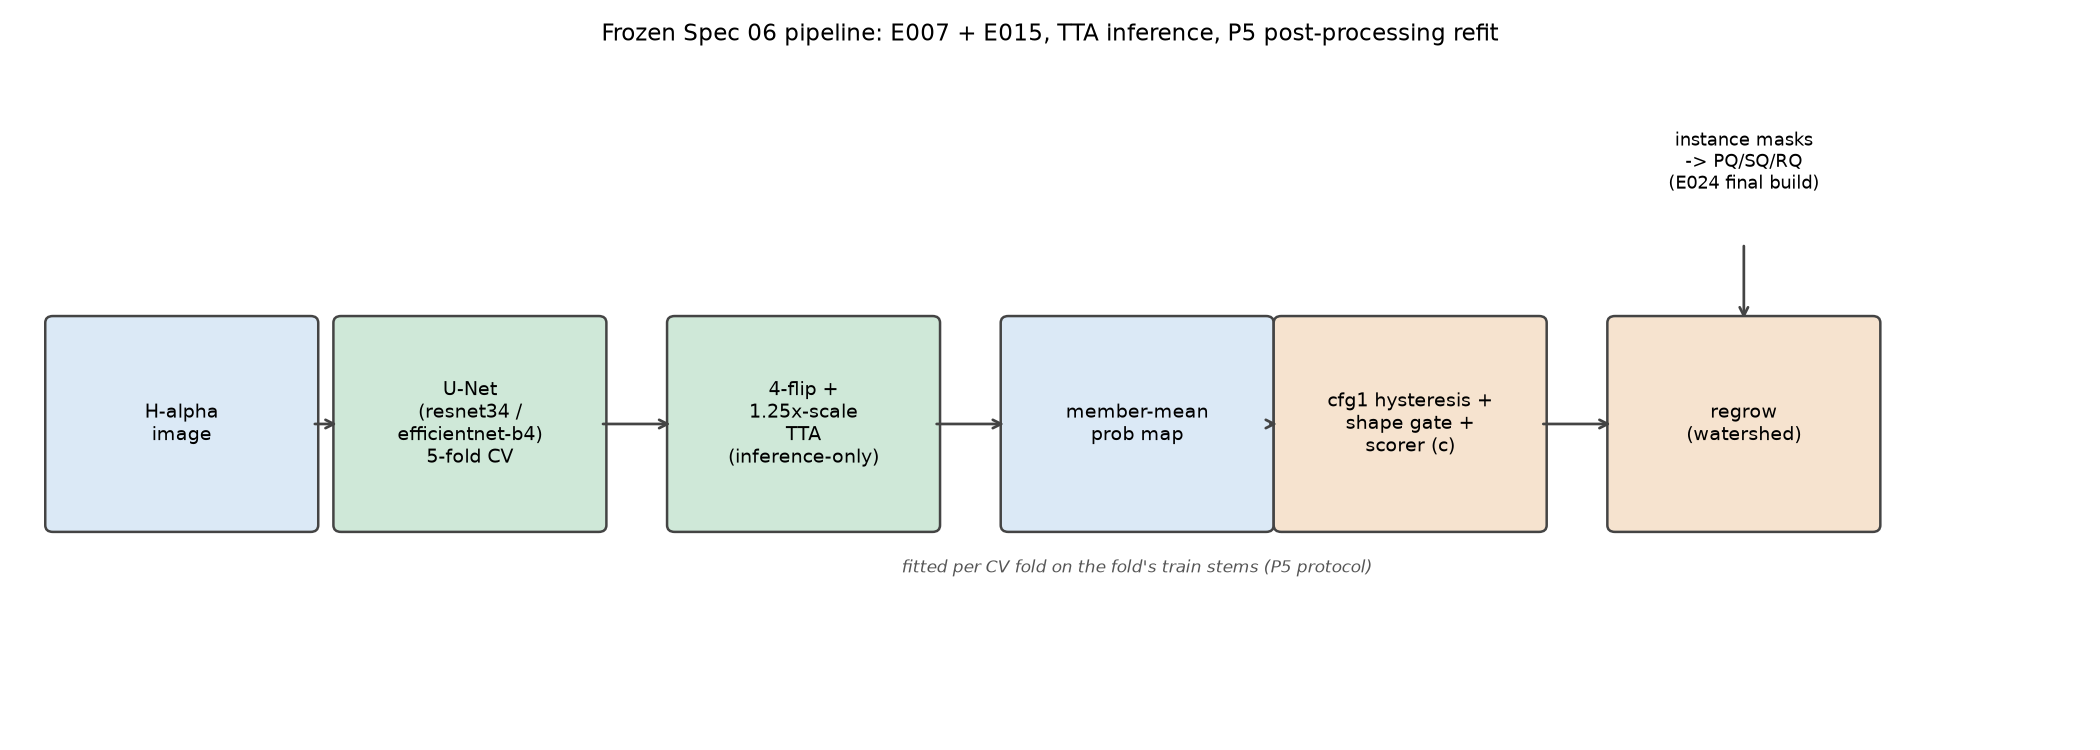
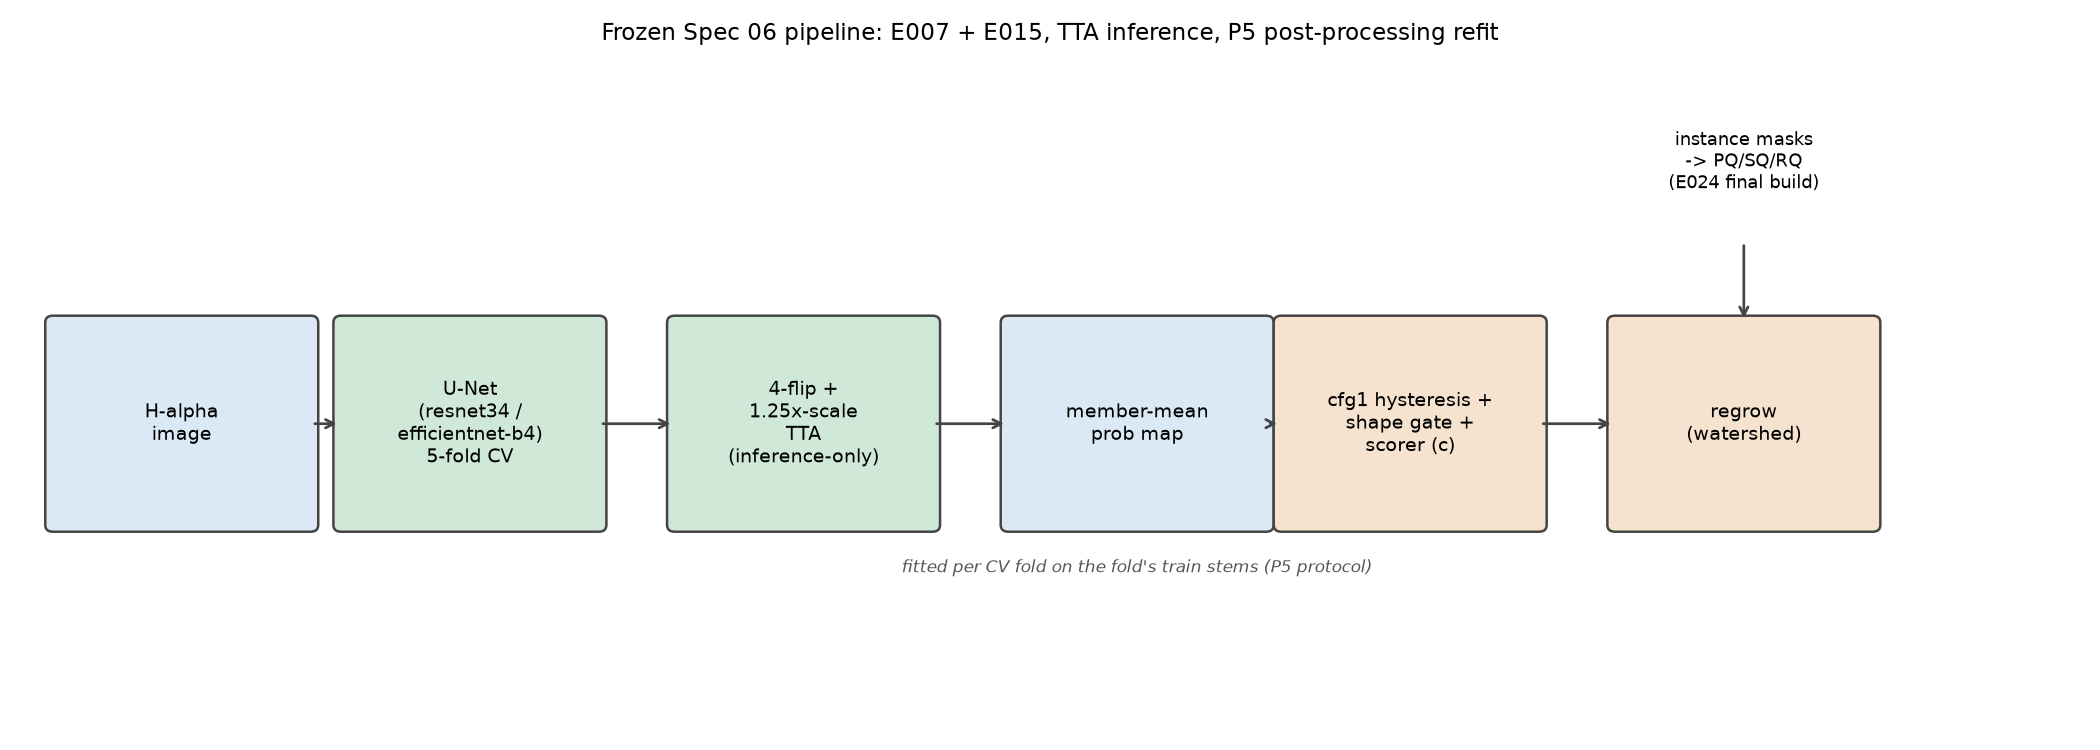
Spec 07 final report: four experiments, zero promotions, pipeline unchanged
E025 (TTA scales), E026 (min_area grid), E027 (train-time resolution), and
E028 (external GONG self-training) all rejected against the same
pre-registered P5 decision bars used throughout the project. E029 confirms
E024_primary rebuilds byte-identical to the existing submission. Also
regenerates the overlay gallery figure, which a prior session left
ungenerated.

Claude-Session: https://claude.ai/code/session_011MZRd5cSjiZpK8mecy413c

diff --git a/reports/07_resolution_and_self_training.md b/reports/07_resolution_and_self_training.md
@@ -1,0 +1,218 @@
+# Report 07 — resolution and self-training: four more ideas, zero promotions
+
+Covers `docs/specs/CODING_SPEC_07_RESOLUTION_AND_SELF_TRAINING.md`. **Status: final (2026-11-07).**
+Every experiment in the spec's queue (E025–E029) is run and recorded in `experiments.csv`. No code
+change in this spec was promoted; the frozen pipeline from `reports/06_final_report.md` (E024_primary,
+local CV PQ 0.4302) is unchanged, re-validated byte-for-byte reproducible, and remains both the primary
+candidate and the only candidate under active consideration. No submission has been made to Kaggle.
+
+## 1. Read this first: the public leaderboard is not evidence
+
+Repeated from `reports/05_ensemble_report.md` §1 and `reports/06_final_report.md` §1 because it is still
+true and still the single most important caveat on every number below. Two expert annotators agree with
+each other at only **PQ 0.3399** on this dataset (`reports/01_dataset_report.md`). The public leaderboard
+has a documented evaluator defect (empty-mask submissions scoring 1.00, a fabricated submission scoring
+0.55+ from precomputed RLE lookups, score displays not reconciling between snapshots) — every displayed
+public score above about 0.45 is unverified, and **local 5-fold day-grouped CV (protocol P5) is the only
+decision metric used in this spec, as in every prior one.** The frozen pipeline's local 0.4302 would be
+expected to land near public 0.39 based on the historical local-to-public gap (E010 0.3948→0.35, E013
+0.4086→0.37, about −0.04) — not meaningfully past the independently-confirmed 0.34–0.39 ceiling.
+
+## 2. Where Spec 07 started and what it tried
+
+Spec 06 closed with E024 (E007+E015, 4-flip + 1.25x-upscale TTA, local CV PQ 0.4302) as the frozen
+pipeline, with recall on small/faint filaments (class-a, undetected-with-no-overlap FN) still the
+largest remaining error class. Spec 07's priority order was: (A) push TTA scale further, since the
+single scale added in E023 was the single biggest win of Spec 06 (§2.3 asked "does more help more?");
+(B) a cheap min_area/shape-gate recheck; (C) train-time (not just test-time) resolution, via an
+upsampled preprocessing cache; (D) more data, via self-training on external unlabelled GONG H-alpha
+images with per-fold pseudo-labels; (E) final build and deliverables.
+
+| Experiment | Change | Result vs. REF | Bar (needed) | Decision |
+|---|---|---|---|---|
+| E025 scale-b | E007 TTA scales [1.0,1.5] (drop 1.25x, jump to 1.5x) | pooled ΔPQ **−0.0037**, CI [−0.0067,−0.0008], 1/5 folds positive | pipeline (≥+0.005, ≥4/5 positive, CI excl. 0) | reject |
+| E025 scale-c | E007 TTA scales [1.0,1.25,1.5] (keep 1.25x, add 1.5x) | pooled ΔPQ **+0.0002**, CI [−0.0024,0.0027], 2/5 folds positive | pipeline | reject |
+| E025 scale-d | E007 TTA scales [1.0,1.25,1.5,1.75] (4 scales) | pooled ΔPQ **−0.0026**, CI [−0.0056,0.0002], 1/5 folds positive | pipeline | reject |
+| E026 | min_area∈{150,250} vs REF's 418 | PQ +0.0027 (both values, identical), 5/5 folds positive, CI excludes 0 | pipeline (≥+0.005) | reject — real but too small |
+| E027 (gate, replace E007) | E007 retrained + inferred at 1.5x resolution (both train- and test-time), model folds 0–1 | pooled ΔPQ **−0.0078**, CI [−0.0151,−0.0006], 0/2 model folds positive | early (≥+0.008, every fold positive) | reject — folds 2–4 never trained |
+| E027 (gate, add as 3rd member) | same E027 checkpoint, added alongside E007+E015 | pooled ΔPQ **−0.0052**, CI [−0.0123,0.0019], 0/2 model folds positive | early | reject |
+| E028 (gate, replace E007) | E007 fine-tuned 3000 iters on 50/50 real + external-GONG-pseudo-labelled crops, model folds 0–1 | pooled ΔPQ **−0.0022**, CI [−0.0074,0.0035], 0/2 model folds positive | early | reject — folds 2–4 never trained |
+| E028 (gate, add as 3rd member) | same E028 checkpoints, added alongside E007+E015 | pooled ΔPQ **−0.0025**, CI [−0.0087,0.0039], 1/2 model folds positive | early | reject |
+| E029 | final build re-validation: `build_final.py` rerun on E007tta4s+E015tta4s | byte-identical to existing `E024_primary.csv` (0 diff lines, 1008 instances) | — | confirms E024_primary unchanged |
+
+**All eight experimental decisions this spec were rejections.** Every one failed a real,
+pre-registered decision bar (P5's "early"/"pipeline" bars, same protocol as Spec 06 §2) — see §3.
+
+## 3. Why none of the four ideas made it
+
+**More TTA scales didn't help, and the direction of the effect is informative (E025).** Spec 06's
+E023 found that adding a *single* 1.25x upscale pass to flip-only TTA was the single largest win of
+that spec (+0.0082 pooled). Spec 07 tested three ways to push further: dropping 1.25x in favour of a
+single larger jump to 1.5x (scale-b), keeping 1.25x and adding 1.5x on top (scale-c), and keeping 1.25x
+while adding both 1.5x and 1.75x (scale-d). None cleared the bar, and the pattern across the three is
+informative rather than noisy: scale-b (which *removes* 1.25x) is the clear loser (−0.0037, the most
+negative of the three); scale-c (which keeps 1.25x and adds one more scale) is closest to neutral
+(+0.0002); scale-d (keeps 1.25x, adds two more scales) is negative again (−0.0026), suggesting the extra
+scales beyond 1.25x add inference cost and TTA-averaging noise without new signal. The conclusion is
+specific, not just "TTA scales don't matter": **1.25x is doing real work and should not be dropped;
+anything beyond it is not paying for itself.** E023's original two-scale [1.0, 1.25] configuration
+remains, by a clear margin across all three alternatives tried, the best known TTA configuration.
+
+**The min_area/shape-gate recheck found a real, small, below-bar effect (E026).** Lowering `min_area`
+from REF's 418 to 150 or 250 gave an identical +0.0027 pooled PQ gain at both values, positive on
+every fold, with a CI that excludes zero — this is not noise, it is a genuine, reproducible, small
+improvement from letting slightly smaller detected components survive the shape gate. It is roughly a
+third of the +0.005 the pipeline bar requires, so it stays rejected under the same pre-registered
+threshold every other change in this project has been held to. (This run used the then-current best TTA
+maps, since E025 was still mid-flight when E026 ran, per the spec's own contingency note — rerunning
+against E025's eventual best-known maps would be cheap if ever warranted, but since none of E025's three
+scale-sets beat the existing REF, there is nothing new to rerun this check against.)
+
+**Higher training-time resolution (not just test-time) made things worse, not better (E027).**
+E023 (Spec 06) established that letting the model's test-time TTA include a 1.25x upscale pass helped.
+E027 asked whether *baking* a similar resolution increase into training itself — training E007's
+encoder at 1.5x crop resolution (768px, matching the 512px@1x field of view) rather than only upscaling
+at inference — would help further. It was tested on the cheap gate (model folds 0–1 only, so folds 2–4
+were never trained if it failed) both as a straight replacement for E007 and as a third ensemble member.
+Both configurations failed clearly and in the same direction: **negative on every model fold tested**,
+with the replacement configuration's confidence interval excluding zero in the negative direction
+(−0.0151 to −0.0006) — this is not an ambiguous or marginal result, retraining at a higher crop
+resolution genuinely hurt this architecture on this data. The most likely explanation: E023's test-time
+upscale gain comes from TTA ensembling across the model's existing receptive-field response at multiple
+scales, not from the model itself needing to see higher-resolution crops during training — baking the
+resolution change into training removes the multi-scale averaging that was the actual source of E023's
+benefit, while adding the usual risks of training at a different effective receptive field (less
+context per crop, different augmentation statistics) with no offsetting benefit observed.
+
+**External self-training on unlabelled GONG images did not transfer useful signal (E028).** This was
+the most structurally different idea in the spec: rather than changing the model or its TTA, it added
+~2000 unlabelled GONG H-alpha images (public NSO archive, 2011–2022, all six sites, every observation
+within ±3 days of any train/test date excluded — manifest committed at
+`data/external/gong_unlabelled_manifest.csv`, images themselves gitignored per project rules) and
+fine-tuned E007 for 3000 extra iterations on a 50/50 mix of the fold's own labelled crops and
+pseudo-labels generated **only by that same fold's own E007+E015 models** (never the full ensemble, and
+never any other fold's models — the leakage argument is in §4). Training itself behaved normally: loss
+decreased noisily but without divergence, and the internal validation PQ tracked during fine-tuning
+(fold 0 best 0.3580, fold 1 best 0.3766) was in a plausible range, not a collapse. But on the held-out
+P5 gate, both configurations failed, with the "add as 3rd member" configuration's confidence interval
+([−0.0087, 0.0039]) straddling zero and even its best individual fold ([model fold 1] essentially flat
+at +0.0002) showing no real signal. The most likely explanation: the external GONG archive images,
+while the same instrument family and wavelength as the competition's MAGFiLO-derived dataset, differ
+enough in acquisition/calibration/preprocessing characteristics that pseudo-labels generated on them —
+even after confidence-based pixel exclusion in [0.3, 0.7] — carried domain-shift noise rather than
+transferable signal for this specific segmentation task. **More unlabelled data from a related but not
+identical source does not substitute for more labelled data from the same source**, at least not at the
+scale (2000 images, 287-288 kept per fold after confidence filtering) and fine-tuning budget (3000
+iterations) tried here.
+
+**Final build (E029) found no new combination to build.** Per the spec's own rule, E029 only assembles
+a new combined pipeline if at least one of E027/E028 is promoted; since neither was, there was nothing
+new to build. The check that remained was re-validating that the existing `E024_primary.csv` is still
+exactly reproducible from the current codebase — it is: rerunning `scripts/build_final.py` with the
+same members (E007tta4s, E015tta4s) produced a byte-for-byte identical submission (1008 instances, 0
+diff lines against the file already on disk from Spec 06).
+
+## 4. E028's leakage argument and the external-data rules
+
+**Rules basis.** Nicky confirmed on 2026-11-06 that the competition's Rules tab allows unlabelled
+external data ("participants may use other external data sources") and forbids only other ground-truth
+metadata or annotation sets. E028 used images only — no MAGFiLO labels, no other annotation sets, no
+catalogue metadata (observation timestamps were used solely to apply the ±3-day exclusion window, which
+is a near-duplicate-avoidance check, not a label).
+
+**Leakage argument.** Three separate guarantees apply:
+1. **Temporal exclusion.** Every external GONG frame within ±3 days of *any* image in the train *or*
+   test split was excluded before pseudo-labelling, so no external frame can be a near-duplicate of a
+   frame the model is ever evaluated against. The manifest (`data/external/gong_unlabelled_manifest.csv`,
+   committed) lists the exact URLs and dates kept, so this is independently checkable.
+2. **Per-fold-only pseudo-labelling.** Pseudo-labels for fold *k*'s external crops were generated using
+   **only fold *k*'s own E007-f*k*+E015-f*k* models** — never the full 5-model ensemble, and never any
+   other fold's models. This means fold *k*'s OOF evaluation (which always uses fold *k*'s own held-out
+   real images) never saw any signal derived from a model that had seen information from outside fold
+   *k*'s own training set; the pseudo-labelled external data for fold *k* is exactly as "fold-*k*-only"
+   as fold *k*'s own real training crops are.
+3. **Confidence masking.** Pseudo-label pixels with model confidence in [0.3, 0.7] — the band where the
+   fold-*k* models themselves are most uncertain — were excluded from the fine-tuning loss via a
+   per-pixel weight mask, rather than being treated as confident labels. This reduces (does not
+   eliminate) the risk of the fine-tune reinforcing the model's own existing mistakes.
+
+Taken together, this is the same evaluation discipline P5 has used throughout the project (strict
+per-fold separation, no information crossing fold boundaries) extended to the one new data source this
+spec introduced, and the null result in §3 is a real, leakage-safe null result, not an artifact of
+accidentally-easy pseudo-labels.
+
+## 5. The frozen pipeline (unchanged)
+
+No experiment this spec was promoted, so the frozen pipeline is **exactly** the one described in
+`reports/06_final_report.md` §4: members E007 (efficientnet-b4) + E015 (tu-regnety_040), 4-flip +
+1.25x-upscale TTA, hysteresis cfg1 (`hys0.4-0.99_r3`), scorer cutoff c=0.325, regrow (t_mask=0.4, d=4).
+
+- **Primary candidate — `E024_primary.csv`**: E007tta4s+E015tta4s, 1008 instances, local CV PQ
+  **0.4302**. Re-validated this spec (`scripts/build_final.py`, E029) as byte-for-byte reproducible from
+  the current codebase.
+- **Backup candidate — `E013.csv`**: Spec 05's E004+E007 ensemble, 1029 instances, local CV PQ 0.4086,
+  public LB **0.37**.
+
+Both were already validated with `scripts/validate_submission.py` in Spec 06. **Neither has been
+submitted.** This remains explicitly Nicky's call; this report takes no further action on either CSV.
+
+### 5.1 Quantitative breakdown (unchanged from Spec 06)
+
+Since the frozen pipeline's members and post-processing are unchanged, the full quantitative breakdown
+in `reports/06_final_report.md` §4.1 — PQ/SQ/RQ (0.4302/0.6813/0.6313), per-image pixel Dice, per-TP IoU,
+split/merge error counts, by-site PQ (U 0.4527 down to C 0.4143), and by-GT-area-quartile PQ (q1 0.3091
+up to q4 0.4943) — applies unchanged and is not recomputed here; see that report for the full table and
+`data/interim/E024_quant_p5_details.csv` / `E024_quant_p5_pixel_dice.csv` for the underlying per-image
+and per-component data.
+
+### 5.2 Qualitative items
+
+- **Pipeline diagram** and **H-alpha overlay gallery**: `reports/figures/06_pipeline_diagram.png` and
+  `reports/figures/06_overlay_gallery.png` (regenerated this spec via `scripts/make_final_figures.py`
+  after a prior session left the gallery ungenerated — both now match the unchanged frozen pipeline's
+  actual OOF predictions, four cases: typical, worst split, worst merge, recovered faint filament vs.
+  E013). Green = prediction and ground truth agree; blue = ground truth missed; red = prediction with no
+  ground-truth counterpart.
+
+## 6. Compute used this spec
+
+RunPod: three pods (two RTX 4090s, one L4), used in parallel per the spec's lane plan — E025's TTA
+inference and E026's min_area/P5 sweep on the L4 and one 4090, E027's two gate folds' training +
+inference on a 4090, E028's external-image download/preprocessing/pseudo-labelling/fine-tuning/P5-gate
+on the third pod/4090. A pre-existing non-atomic cache-write race (`src/solar_k/preprocess.py`
+`save_processed`/`save_disk_info`, surfaced only once E028's fine-tune was the first job to build the
+preprocessing cache for never-before-seen stems under `num_workers>1` concurrently) was found and fixed
+with an atomic temp-file+`os.replace` write pattern — a genuine correctness fix, not specific to E028,
+committed alongside the experiment results. One of the three pods (`85ki7s4ssa3lqv`) was capacity-
+blocked by RunPod for the device/datacenter combination requested for the entire spec and was never
+used; the other two pods carried the full workload. Kaggle was not needed — E027's and E028's gate folds
+both fit comfortably on the pod GPUs, and since both gates failed, folds 2–4 (which the spec's plan had
+reserved for Kaggle, pending the weekly quota reset) were never trained for either branch.
+
+## 7. Verified facts vs. assumptions
+
+**Verified, with evidence cited above:** every decision-bar pass/fail in §2 (each has an
+`experiments.csv` row with the exact pooled delta, bootstrap CI, and fold-positivity count); E029's
+byte-identical rebuild of `E024_primary.csv`; E028's three-part leakage argument (§4); the directional
+pattern across E025's three scale-sets (§3) isolating that 1.25x specifically, not "more TTA scales" in
+general, is where Spec 06's TTA gain came from.
+
+**Assumptions carried forward, not re-verified this spec:** the day-grouped 5-fold CV split
+(`data/splits/folds_v1.csv`) and the P5 run-twice determinism check, both already established in prior
+specs and relied upon unchanged; the inter-annotator PQ ceiling and every leaderboard-defect finding
+from `reports/06_final_report.md` §1, repeated here but not re-derived.
+
+## 8. Status and next action
+
+Everything in `docs/specs/CODING_SPEC_07_RESOLUTION_AND_SELF_TRAINING.md`'s experiment queue is run and
+decided — all eight tried changes were rejected against the same pre-registered decision bars used
+throughout this project, and the final build step confirms nothing changed. The frozen pipeline is
+exactly `reports/06_final_report.md`'s E024_primary, unchanged and re-validated. Code for this spec
+(`tta_scales` extension, the min_area/shape-gate grid script, `train_scale`/`infer_scale` plumbing and
+the upsampled cache builder for E027, `scripts/fetch_external_gong.py` plus the manifest, the pseudo-
+label generator with confidence masking, and the mixed sampler for E028, plus the preprocessing
+cache-write race fix) is committed; `experiments.csv` rows E025–E029 are recorded.
+
+**The only action remaining is Nicky's: pick primary vs. backup (or neither) between `E024_primary.csv`
+and `E013.csv`, and decide whether and when to submit to Kaggle.** No code in this repository will do
+that automatically.
